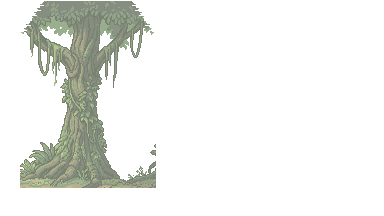
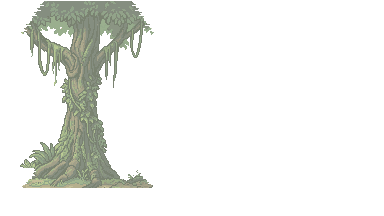
Slope the ends of the tree that opens Bamboo Pass into the road
The Old Grove tree at the start of Bamboo Pass was cut out of the Old
Grove's near strip along two straight columns, through its floor band and
into the roots of the next tree, so both ends stood on the mist as hard
edges, with scraps of that next tree beside the right one.

- tools/backdrop_layers.py taper cuts one end of a one-off layer back into
  a frayed slope, steep under the piece and spreading at its foot.
- bamboo-pass/way-in.png has both ends tapered (`right 126 140 154`, then
  `left 34 168 20`), as the backdrops README now says.
- test/regression/bugs/bamboo-way-in-cut.test.js fails on a straight cut
  at either end; before the fix the left end ran straight for 15 rows and
  the right for 20.
- In the game the tree now settles into the mist at both ends, at the
  start of the road and as it scrolls away.

Changed region(s): [[0.3438, 0.75, 0.4062, 0.8611], [0.0312, 0.7778, 0.0938, 0.8611], [0.375, 0.6944, 0.4062, 0.7222]]

diff --git a/apps/web/games/steel-and-dust/test/regression/bugs/bamboo-way-in-cut.test.js b/apps/web/games/steel-and-dust/test/regression/bugs/bamboo-way-in-cut.test.js
@@ -1,0 +1,53 @@
+import { join } from 'node:path';
+import { describe, expect, it } from 'vitest';
+import { readPngAlpha } from '../../support/png-alpha.js';
+
+// Bug: the Old Grove tree that opens Bamboo Pass was cut out of the Old Grove's near strip along two
+// straight columns, through its floor band and into the roots of the next tree, so both ends stood
+// on the mist as hard edges with scraps of that next tree beside the right one
+const WAY_IN = join(import.meta.dirname, '../../../assets/backdrops/bamboo-pass/way-in.png');
+
+// a ragged end reaches its outermost column on a few rows at a time; a cut reaches it all the way down
+const LONGEST_RAGGED_RUN = 4;
+
+function rowEnds(strip) {
+  const ends = [];
+
+  for (let y = 0; y < strip.height; y++) {
+    const painted = [];
+
+    for (let x = 0; x < strip.width; x++) {
+      if (strip.alpha(x, y)) {
+        painted.push(x);
+      }
+    }
+
+    ends.push(painted.length ? { first: painted[0], last: painted[painted.length - 1] } : null);
+  }
+
+  return ends;
+}
+
+function longestRun(ends, reaches) {
+  let longest = 0;
+  let run = 0;
+
+  for (const end of ends) {
+    run = end && reaches(end) ? run + 1 : 0;
+    longest = Math.max(longest, run);
+  }
+
+  return longest;
+}
+
+describe('the tree that opens Bamboo Pass', () => {
+  it('slopes off at both ends instead of stopping on a straight cut', () => {
+    const ends = rowEnds(readPngAlpha(WAY_IN));
+    const painted = ends.filter(Boolean);
+    const left = Math.min(...painted.map((end) => end.first));
+    const right = Math.max(...painted.map((end) => end.last));
+
+    expect(longestRun(ends, (end) => end.first === left)).toBeLessThanOrEqual(LONGEST_RAGGED_RUN);
+    expect(longestRun(ends, (end) => end.last === right)).toBeLessThanOrEqual(LONGEST_RAGGED_RUN);
+  });
+});

diff --git a/tools/backdrop_layers.py b/tools/backdrop_layers.py
@@ -27,6 +27,10 @@
         builds a one-off layer for the start of a road from pieces of the last mission's near strip:
         each piece (columns x0 to x1 from row y0 down) is set at column `at` with its lowest solid
         row on base_y, and all of it is hazed toward this forest's air
+    python3 tools/backdrop_layers.py taper <in> <out> <left|right> <x_top> <y_top> <x_foot>
+        cuts one end of a one-off layer back into a frayed slope, from column x_top on row y_top
+        down to column x_foot on its lowest solid row, so a piece cut out of a strip settles on the
+        road like a mound instead of standing on a straight edge
     python3 tools/backdrop_layers.py near <out> <base_y> <haze #rrggbb> <amount> <in>...
         rolls each transparent near painting so its widest see-through gap sits on its edges,
         drops its lowest solid row to base_y, joins them side by side and hazes them toward the
@@ -175,6 +179,26 @@ def wayin(dst, base_y, colour, amount, *pieces):
         part = Image.open(path).convert('RGBA').crop((int(x0), int(y0), int(x1), HEIGHT))
         out.alpha_composite(part, (int(at), int(base_y) - lowest_solid_row(part)))
     haze(out, colour, float(amount)).save(dst)
+
+
+# how far each row of a tapered end steps back in, so it frays like turf instead of a ruled line
+FRAY = [0, 1, 0, 2, 1, 0, 1, 3, 0, 1, 2, 0]
+
+
+def taper(src, dst, side, x_top, y_top, x_foot):
+    im = Image.open(src).convert('RGBA')
+    px = im.load()
+    x_top, y_top, x_foot = int(x_top), int(y_top), int(x_foot)
+    foot = lowest_solid_row(im)
+    inward = 1 if side == 'left' else -1
+    for y in range(y_top, foot + 1):
+        # steep under the piece and spreading at its foot, as a bank of earth settles
+        spread = ((y - y_top) / max(1, foot - y_top)) ** 2
+        edge = round(x_top + (x_foot - x_top) * spread) + inward * FRAY[y % len(FRAY)]
+        for x in range(im.width):
+            if (x - edge) * inward < 0:
+                px[x, y] = (0, 0, 0, 0)
+    im.save(dst)
 
 
 def widest_gap_centre(im):
@@ -433,6 +457,7 @@ if __name__ == '__main__':
         'groundhaze': groundhaze,
         'vary': vary,
         'wayin': wayin,
+        'taper': taper,
         'cliff': cliff,
         'edge': edge,
         'unblend': unblend,

diff --git a/apps/web/games/steel-and-dust/assets/backdrops/README.md b/apps/web/games/steel-and-dust/assets/backdrops/README.md
@@ -211,7 +211,9 @@ tiles side by side, and every road got a cliff face. All of it is reproducible w
   `way-in.png` layer drawn once from the start of the road (`once: true`, parallax 0.5), made with
   `wayin` from the last road's near strip as it was before this pass and hazed toward this forest's
   air: two pines from Pine Ridge in the Old Grove (`#b8ccaa`, 0.3), an Old Grove tree (its canopy
-  trimmed to a ragged edge and its floor band left behind) in Bamboo Pass (`#e1f1df`, 0.35), a
+  trimmed to a ragged edge and its floor band left behind) in Bamboo Pass (`#e1f1df`, 0.35), its
+  ends cut back into frayed slopes with `taper` (`right 126 140 154`, then `left 34 168 20`) where
+  `wayin` had left them on straight cuts through the floor band and the next tree's roots, a
   bamboo clump at the Raider Camp gate (`#d8ae84`, 0.3), the camp's crates and banner on the edge of
   Ember Woods (`#e7a35f`, 0.25) and the last autumn tree going dark in Firefly Hollow (`#3c3c74`,
   0.58).
